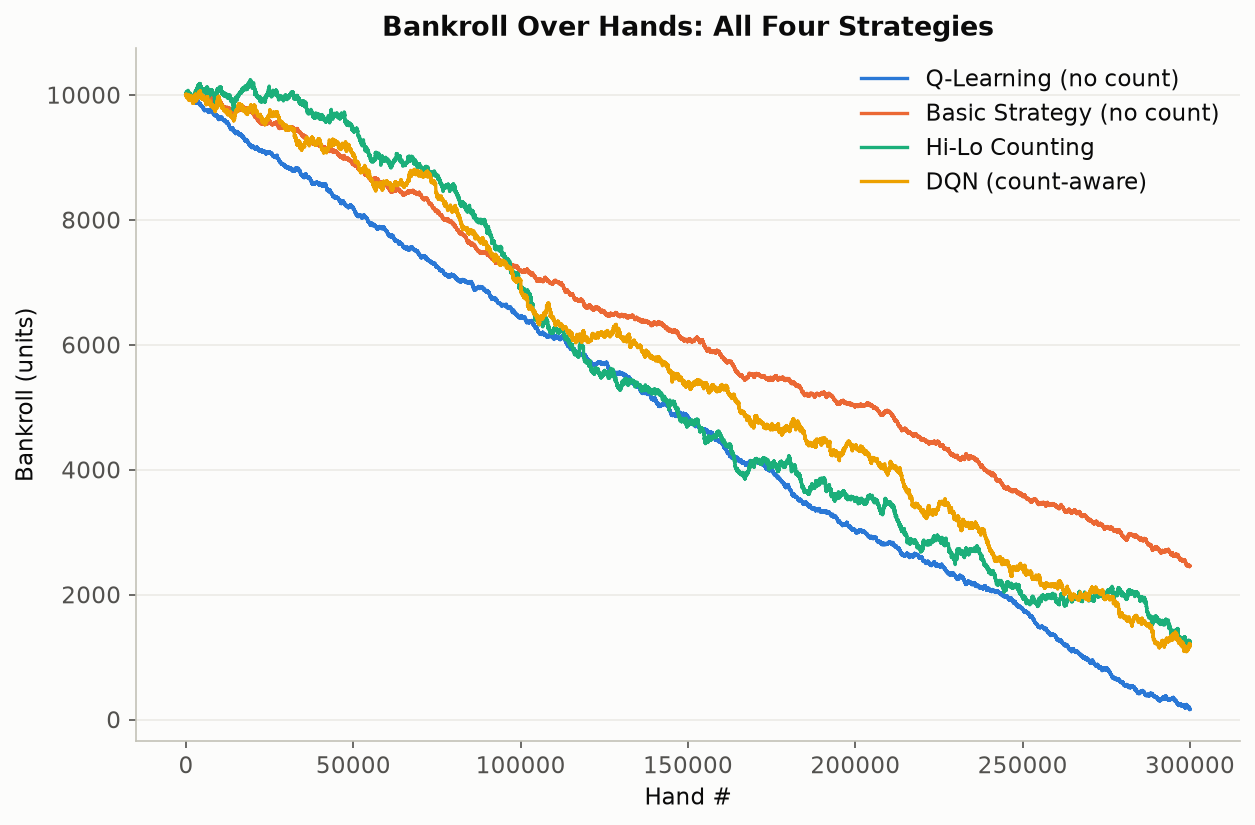
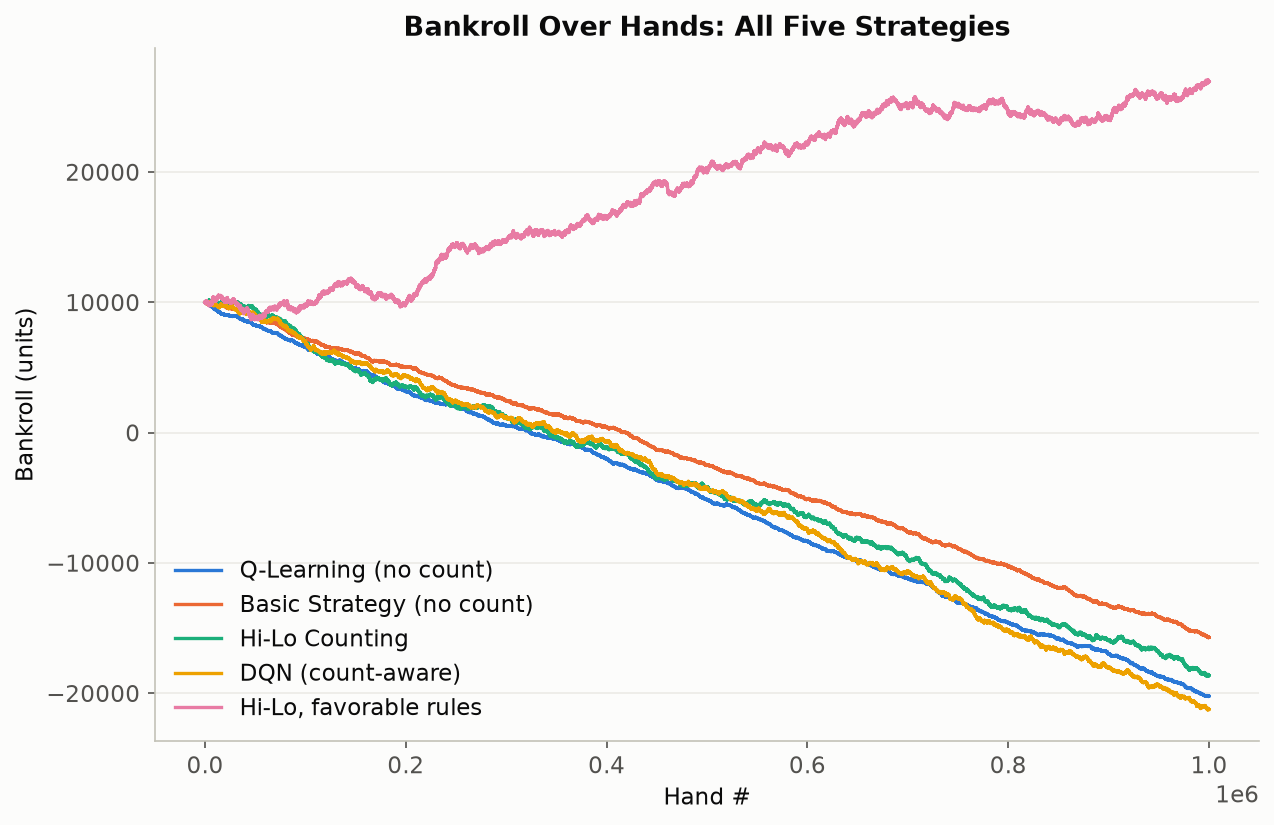
Add a favorable-rules row to the headline comparison so the positive edge is front and center
rule_impact.py already proved single deck + surrender + Hi-Lo spread gets a
genuine positive edge without double-down, but it was buried in a secondary
script. Added it as a 5th row in compare.py's main comparison (+0.58%,
verified at 1M hands) so the "does counting actually work" answer is
visible in the primary chart and table, not just a side investigation.
Also documents a real, slightly counterintuitive wrinkle: that row's win
rate is the lowest of the five despite having the best edge, because
surrender trades win frequency for smaller, more consistent losses.

diff --git a/compare.py b/compare.py
@@ -1,4 +1,4 @@
-"""Head-to-head comparison of all four strategies in this repo, on matched
+"""Head-to-head comparison of all strategies in this repo, on matched
 conditions, producing the repo's headline charts.
 
 Rows:
@@ -6,13 +6,18 @@ Rows:
   2. Basic strategy        -- flat bet,        6-deck shoe,   count-blind
   3. Hi-Lo counting        -- Hi-Lo bet spread, 6-deck shoe,   basic strategy + count-aware betting
   4. DQN                   -- Hi-Lo bet spread, 6-deck shoe,   learned count-aware play
+  5. Hi-Lo, favorable rules -- Hi-Lo bet spread, 1-deck shoe + surrender, basic strategy
 
 Rows 2 and 3 share a seed and an identical playing policy (basic strategy),
 so they see identical cards and isolate exactly what the bet spread adds over
 flat betting. Row 1 is evaluated under natural=True payouts (despite being
 trained under natural=False) to match the other rows' payout rules -- always
 standing on a made/natural 21 is optimal regardless of the payout multiplier,
-so the trained policy is still valid there.
+so the trained policy is still valid there. Row 5 is the only row that
+changes the *rules*, not just the strategy -- see rule_impact.py for the
+full rule-by-rule breakdown of why. It's still a no-double/no-split 2-action
+game, same as every other row; the only differences are deck count and
+surrender, both real, independently adjustable rules in common/shoe_env.py.
 """
 import numpy as np
 import torch
@@ -22,7 +27,7 @@ from common.plot_style import STRATEGY_COLORS, INK_MUTED, apply_style, savefig  
 import matplotlib.pyplot as plt
 
 from common.bankroll_sim import simulate
-from common.basic_strategy import basic_strategy_action
+from common.basic_strategy import basic_strategy_action, should_surrender
 from common.card_counting import bet_units
 from common.dqn_model import BlackjackNet, normalize_obs
 from common.shoe_env import ShoeBlackjackEnv
@@ -31,13 +36,15 @@ import gymnasium as gym
 
 apply_style()
 
-N_HANDS = 300_000
+N_HANDS = 1_000_000
 SEED = 555
 Q_LEARNING = "Q-Learning (no count)"
 BASIC_STRATEGY = "Basic Strategy (no count)"
 HILO = "Hi-Lo Counting"
 DQN = "DQN (count-aware)"
+HILO_FAVORABLE = "Hi-Lo, favorable rules"
 FLAT_BET = lambda tc: 1
+SURRENDER_FN = lambda ps, du, ua, tc: should_surrender(ps, du, ua)
 
 
 def load_qtable_policy():
@@ -73,7 +80,7 @@ def plot_bankroll_comparison(results, save_path):
     plt.figure(figsize=(9.5, 6))
     for name, stats in results.items():
         plt.plot(stats["bankroll_trajectory"], color=STRATEGY_COLORS[name], linewidth=1.6, label=name)
-    plt.title("Bankroll Over Hands: All Four Strategies")
+    plt.title("Bankroll Over Hands: All Five Strategies")
     plt.xlabel("Hand #")
     plt.ylabel("Bankroll (units)")
     plt.legend(frameon=False)
@@ -101,7 +108,7 @@ def plot_summary_bars(results, save_path):
 
 
 def main():
-    print(f"Running {N_HANDS:,}-hand matched comparison across 4 strategies...\n")
+    print(f"Running {N_HANDS:,}-hand matched comparison across 5 strategies...\n")
 
     results = {}
 
@@ -118,6 +125,13 @@ def main():
     dqn_policy = load_dqn_policy()
     env4 = ShoeBlackjackEnv(seed=SEED)
     results[DQN] = simulate(env4, dqn_policy, bet_units, N_HANDS)
+
+    # Same strategy as row 3 (Hi-Lo), different rules: single deck + late
+    # surrender, both real adjustable rules, not a different game. See
+    # rule_impact.py for why this specific combination is what it takes to
+    # get a no-double/no-split game to a genuine positive edge.
+    env5 = ShoeBlackjackEnv(num_decks=1, seed=SEED)
+    results[HILO_FAVORABLE] = simulate(env5, basic_policy, bet_units, N_HANDS, surrender_fn=SURRENDER_FN)
 
     print(f"{'Strategy':<28}{'Win%':>8}{'Push%':>8}{'Loss%':>8}{'Edge%':>10}{'Final Bankroll':>18}")
     for name, stats in results.items():

diff --git a/common/plot_style.py b/common/plot_style.py
@@ -15,6 +15,7 @@ BLUE = "#2a78d6"
 ORANGE = "#eb6834"
 AQUA = "#1baf7a"
 YELLOW = "#eda100"
+MAGENTA = "#e87ba4"
 RED = "#e34948"
 
 SURFACE = "#fcfcfb"
@@ -31,6 +32,7 @@ STRATEGY_COLORS = {
     "Basic Strategy (no count)": ORANGE,
     "Hi-Lo Counting": AQUA,
     "DQN (count-aware)": YELLOW,
+    "Hi-Lo, favorable rules": MAGENTA,
 }
 
 # Binary action heatmaps (Stand=0, Hit=1) -- a 2-class categorical, not a

diff --git a/README.md b/README.md
@@ -24,57 +24,66 @@ count signal.
 
 ## Headline result
 
-Four strategies, run under matched conditions (300,000 hands each):
+Five strategies, run under matched conditions (1,000,000 hands each):
 
 | Strategy | Win % | Push % | Loss % | Edge (per $ wagered) |
 |---|---|---|---|---|
-| **Q-Learning** (`Simple_21`, infinite deck, no count) | 42.49% | 9.64% | 47.87% | **-3.28%** |
-| **Basic Strategy** (exact-EV, count-blind, 6-deck shoe) | 42.97% | 9.45% | 47.58% | **-2.51%** |
-| **Hi-Lo Counting** (`CardCounting_21`, basic strategy + bet spread) | 42.97% | 9.45% | 47.58% | **-1.89%** |
-| **DQN** (`NeuralNet_21`, learned count-aware play + bet spread) | 43.01% | 9.08% | 47.91% | **-1.91%** |
+| **Q-Learning** (`Simple_21`, infinite deck, no count) | 42.61% | 9.67% | 47.72% | **-3.02%** |
+| **Basic Strategy** (exact-EV, count-blind, 6-deck shoe) | 42.94% | 9.46% | 47.60% | **-2.57%** |
+| **Hi-Lo Counting** (`CardCounting_21`, basic strategy + bet spread) | 42.94% | 9.46% | 47.60% | **-1.86%** |
+| **DQN** (`NeuralNet_21`, learned count-aware play + bet spread) | 43.03% | 9.09% | 47.87% | **-2.03%** |
+| **Hi-Lo, favorable rules** (1-deck + surrender, same Hi-Lo spread) | 41.16% | 8.45% | 50.39% | **+0.58%** |
 
 ![Player edge by strategy](results/compare_summary.png)
-![Bankroll over hands, all four strategies](results/compare_bankroll.png)
+![Bankroll over hands, all five strategies](results/compare_bankroll.png)
 
-Generated by [`compare.py`](compare.py). A few things worth calling out
-before you read the numbers as "counting barely helps":
+Generated by [`compare.py`](compare.py). That last row is the answer to
+"shouldn't counting give the player an edge?" — yes, and here it visibly
+does: same Hi-Lo strategy as row 3, only the *rules* changed (single deck +
+late surrender, both real adjustable rules in `common/shoe_env.py`, still no
+double-down). The bankroll chart makes it obvious — one line climbs, four
+trend down. A few things worth understanding before taking any of this at
+face value:
 
-- **Every number here is still negative — and that's the correct, expected
-  result for this ruleset, not a bug.** It's tempting to expect counting to
-  flip the game into the player's favor the way it famously can in real
-  casino blackjack. It doesn't here, and the reason is precise, not hand-wavy
-  (see "Does counting actually overcome the house edge here?" under
-  `CardCounting_21` below for the full measurement) — the short version is
-  that this ruleset's baseline is too steep and its favorable counts too rare
-  for any bet spread, however well tuned, to pull the *overall* average past
-  breakeven.
-- **This ruleset has no double-down or split** (matching Gymnasium's
-  original 2-action environment). Real casino blackjack's ~0.5% house edge
-  leans heavily on those two plays; without them, baseline edge here is a
-  much steeper -2.5% to -3%. Counting still measurably closes that gap — it
-  just doesn't fully overcome a harder-than-usual baseline.
-- **Win rate barely moves between strategies; edge% is where counting shows
-  up.** Basic Strategy and Hi-Lo play *identical* hands here (matched seed),
-  so their win/push/loss rates are the same — Hi-Lo's edge improves purely
-  because it bets more when the count favors the player and less when it
-  doesn't.
-- **Watch out reading the bankroll chart literally**: Hi-Lo and the DQN bet
-  a variable 1-16 units depending on the count, so they wager *more total
-  money* than the flat-bet strategies. A better edge% doesn't always mean a
-  higher line on a raw bankroll chart, since more total wagering means more
-  absolute swing in both directions. Edge% (return per dollar wagered) is
-  the real measure of strategy quality; the table above is more trustworthy
-  than eyeballing the chart.
-- **The DQN doesn't quite beat the rule-based Hi-Lo counter here**, despite
-  using the identical bet spread — meaning nearly all of Hi-Lo's advantage
-  over Basic Strategy comes from bet sizing, not play deviations, and the
-  DQN's learned play has a small residual gap to *exact*-EV basic strategy
-  (visible in its strategy heatmaps below — see NeuralNet_21's notes).
-- **This table uses this repo's default rules** (6-deck, dealer stands soft
-  17, blackjack pays 3:2, no surrender). Those rules are all now
-  independently adjustable, and stacking every favorable one *does* push a
-  counter into positive territory — see `rule_impact.py` below for exactly
-  how much each rule is worth, and how far.
+- **The other four numbers are negative, and that's the correct, expected
+  result for *this repo's default* 6-deck/no-surrender ruleset — not a bug,
+  and not the ceiling of what counting can do**, as row 5 shows. See "Does
+  counting actually overcome the house edge here?" under `CardCounting_21`
+  and `rule_impact.py` below for the full measurement behind both the
+  default numbers and the favorable-rules result.
+- **This ruleset has no double-down or split anywhere**, including row 5
+  (matching Gymnasium's original 2-action environment). Real casino
+  blackjack's ~0.5% house edge leans heavily on those two plays; without
+  them, the *default*-rules baseline here is a much steeper -2.5% to -3%.
+  Row 5's positive edge comes entirely from deck count and surrender, not
+  from quietly adding double-down back in.
+- **Row 5's win rate is actually the lowest of the five, and its loss rate
+  the highest — despite having the best edge.** That's surrender doing its
+  job, not a contradiction: surrendering forfeits exactly half the bet
+  immediately, counted as a loss either way, on hands whose *average*
+  continued-play outcome would have been worse than that half-loss even
+  though many of those same hands would have gone on to win or push if
+  played out. Trading away some win-rate for consistently smaller losses is
+  the whole mechanism — edge%, not win rate, is what should move.
+- **Win rate barely moves between the count-blind and counting strategies
+  that share a ruleset; edge% is where counting shows up.** Basic Strategy
+  and Hi-Lo (row 2 vs. 3) play *identical* hands (matched seed), so their
+  win/push/loss rates are the same — Hi-Lo's edge improves purely because it
+  bets more when the count favors the player and less when it doesn't.
+- **Watch out reading the bankroll chart's other four lines literally**:
+  Hi-Lo and the DQN bet a variable 1-16 units depending on the count, so
+  they wager *more total money* than the flat-bet strategies. A better edge%
+  doesn't always mean a higher line on a raw bankroll chart, since more
+  total wagering means more absolute swing in both directions. Edge% (return
+  per dollar wagered) is the real measure of strategy quality; the table
+  above is more trustworthy than eyeballing those four lines against each
+  other (row 5's climb is large enough that this caveat doesn't apply to it).
+- **The DQN doesn't quite beat the rule-based Hi-Lo counter under the
+  default rules**, despite using the identical bet spread — meaning nearly
+  all of Hi-Lo's advantage over Basic Strategy comes from bet sizing, not
+  play deviations, and the DQN's learned play has a small residual gap to
+  *exact*-EV basic strategy (visible in its strategy heatmaps below — see
+  NeuralNet_21's notes).
 
 ## Repo structure
 
